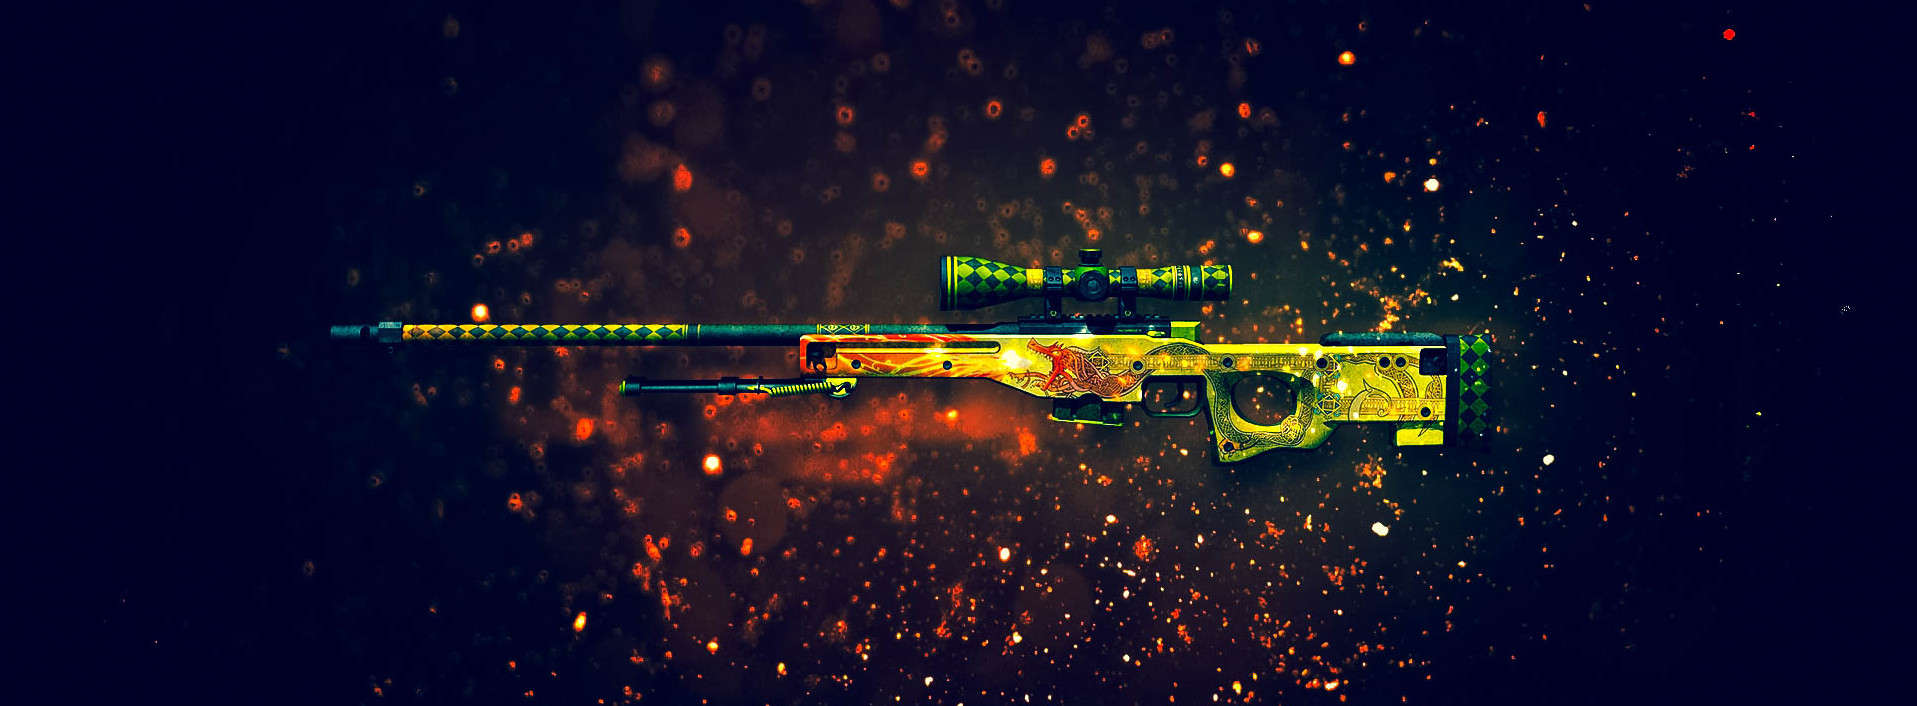
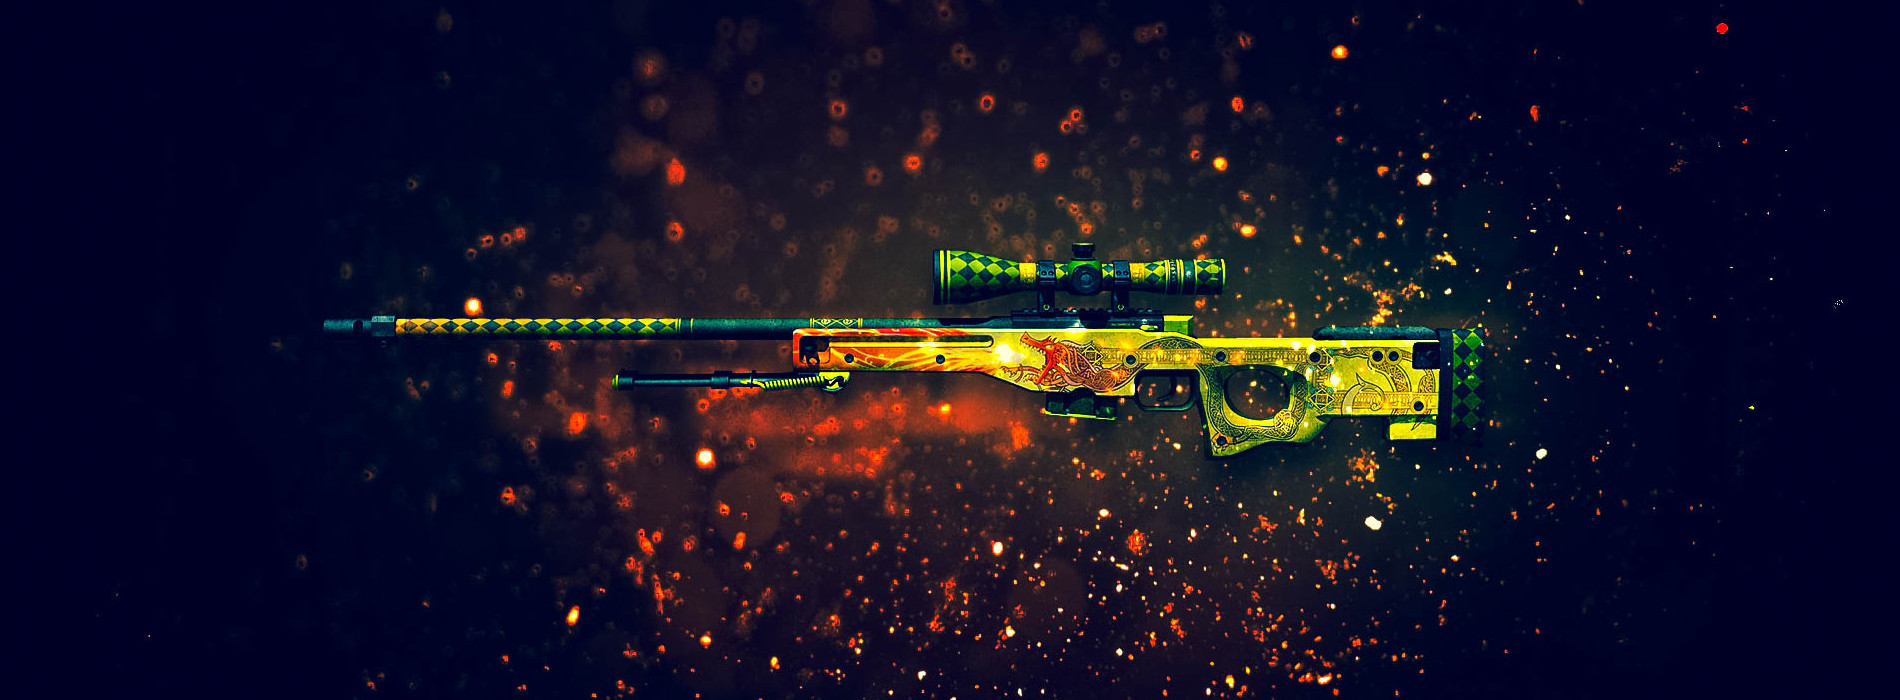
Carousel Images and Desc Done

diff --git a/index.html b/index.html
@@ -50,17 +50,56 @@
 </nav>
 
 <div class="showcase-div">
-    <div class="show-cards">
-        <h4 class="special">Global Presence</h4>
-        <p class="show-card-content">
-            Our presence is well known in countries like Germany, India, Australia, Singapore and many more!
-            <!--We pride-->
-            <!--ourselves in providing-->
-            <!--the lowest latency in all our regions powered by our industry grade architecture.-->
-        </p>
-    </div>
     <div class="show-img-holder">
-        <img src="img/carousel/AWP2.jpg" style="width: 100%;">
+        <div id="carousel" class="carousel slide" data-ride="carousel">
+            <div class="carousel-inner">
+                <div class="carousel-item active">
+                    <div class="show-cards">
+                        <h4 class="special">Powerful Panel</h4>
+                        <p class="show-card-content">
+                            Get the most powerful control panel out there to easily and flexibly manage your servers.
+                        </p>
+                    </div>
+                    <img class="w-100" src="img/carousel/AWP2.jpg" alt="First slide">
+                </div>
+                <div class="carousel-item">
+                    <div class="show-cards">
+                        <h4 class="special">Excellent Community</h4>
+                        <p class="show-card-content">
+                            Become a part of our ever growing community of Gamers and get access to our tournaments and
+                            sponsored events.
+                        </p>
+                    </div>
+                    <img src="img/carousel/community.jpeg" class="w-100" alt="Second slide">
+                </div>
+                <div class="carousel-item">
+                    <div class="show-cards">
+                        <h4 class="special">24x7 Support</h4>
+                        <p class="show-card-content">
+                            Get 24x7 support from professionals in the field. Your wish is our command.
+                        </p>
+                    </div>
+                    <img src="img/carousel/no_fake.png" class="w-100" alt="Third slide">
+                </div>
+                <div class="carousel-item">
+                    <div class="show-cards">
+                        <h4 class="special">Global Presence</h4>
+                        <p class="show-card-content">
+                            Our presence is established in countries like Germany, India, Australia, Singapore and many more!
+                        </p>
+                    </div>
+                    <img src="img/carousel/minecraft.jpg" class="w-100" alt="Third slide">
+                </div>
+            </div>
+            <a class="carousel-control-prev" href="#carousel" role="button" data-slide="prev">
+                <span class="carousel-control-prev-icon" aria-hidden="true"></span>
+                <span class="sr-only">Previous</span>
+            </a>
+            <a class="carousel-control-next" href="#carousel" role="button" data-slide="next">
+                <span class="carousel-control-next-icon" aria-hidden="true"></span>
+                <span class="sr-only">Next</span>
+            </a>
+        </div>
     </div>
 </div>
 

diff --git a/css/styles.css b/css/styles.css
@@ -14,11 +14,10 @@
     --title-font: EVVA, Helvetica, sans-serif;
     --content-font: Ubuntu, "Open Sans", sans-serif;
     --monospace-font: "Fira Mono", monospace;
-    --default-font-size: 16px;
-    --hedding-font-size: 3rem;
-    --navs-font-size: 1.3rem;
-    --content-font-size: 1.5rem;
-    --sub-content-font-size: 1.2rem;
+    --hedding-font-size: 3vw;
+    --navs-font-size: 1.3vw;
+    --content-font-size: 1.5vw;
+    --sub-content-font-size: 1.2vw;
     --font-weight-reg: 400;
     --font-weight-bold: 600;
     --black: #000;
@@ -54,7 +53,7 @@
     background-color: rgba(0, 0, 0, 0.80);
     padding: 0;
     margin: 0;
-    border-bottom: white 0.02rem solid;
+    border-bottom: white 0.02vw solid;
 }
 
 a, h1, h2 {
@@ -92,7 +91,6 @@ a:hover {
     html {
         height: 100%;
         width: 100%;
-        font-size: var(--default-font-size);
     }
 
     body {
@@ -214,8 +212,8 @@ a:hover {
     }
 
     .logo {
-        padding-top: 5rem;
-        width: 9rem;
+        padding-top: 5vw;
+        width: 9vw;
         transition: all 0.6s ease-in-out;
     }
 
@@ -232,8 +230,9 @@ a:hover {
     }
 
     .logo-min {
-        padding-top: 0;
-        width: 4rem;
+        margin: 0;
+        padding: 0;
+        width: 3.5vw;
     }
 
     /*~~~~~~~~~~~~~~~NavBar~~~~~~~~~~~~~~~~~*/
@@ -241,26 +240,23 @@ a:hover {
     .showcase-div {
         grid-area: showcase;
         overflow: hidden;
-        display: grid;
-        grid-template-rows: 20vh 35vh 20vh;
-        grid-template-columns: 10vw 20vw 70vw;
     }
 
     .show-img-holder {
         z-index: -1;
         position: absolute;
+        overflow: hidden;
     }
 
     .show-cards {
-        grid-row: 2;
-        grid-column: 2;
+        position: absolute;
         background-color: rgba(0, 0, 0, 0.7);
-        padding: 4vh;
+        margin: 20vh 70vw 20vh 10vw;
+        padding: 6vh 4vh 4vh 4vh;
         border-radius: 5%;
     }
 
     .show-card-content {
-        padding-top: 2vh;
         font-family: var(--content-font);
         color: var(--white);
         font-size: var(--sub-content-font-size);
@@ -365,7 +361,7 @@ a:hover {
 
     .game-desc {
         padding-left: 1vw;
-        height: 8vh;
+        height: min-content;
         width: 100%;
         position: absolute;
         bottom: 0;
